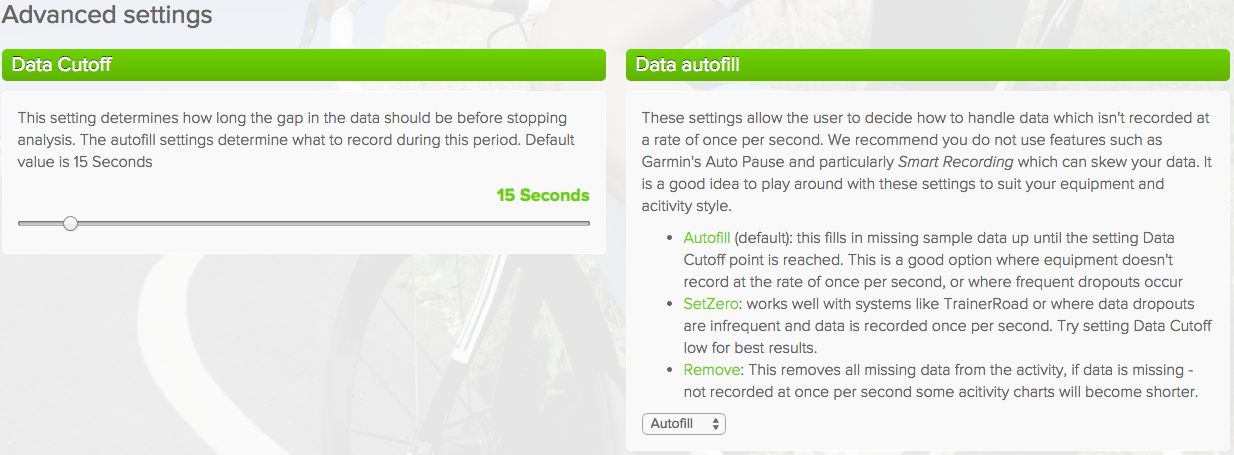
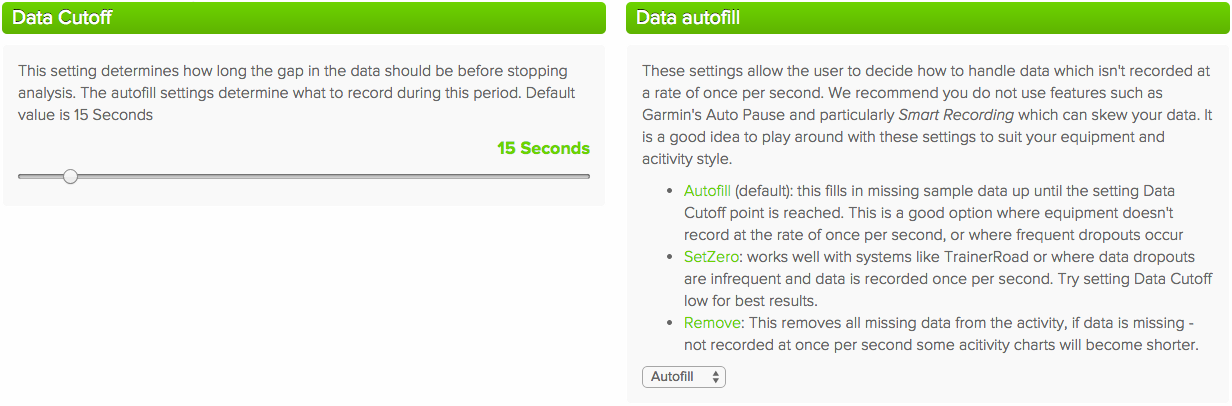
Making the slider look nicer!

Changed region(s): [[0.0, 0.0, 1.0, 0.9458], [0.0, 0.4729, 0.4935, 0.5025], [0.0, 0.4138, 0.4935, 0.4433]]

diff --git a/css/style.css b/css/style.css
@@ -865,14 +865,19 @@ hr{
 	width: 100%;
 	height:40px;
 }
-.footer-links-text{
+.footer-links-text, .footer-links-text-right{
 	margin-top: -10px;
 
 }
-.footer-links-text li{
+.footer-links-text li, .footer-links-text-right li{
 	list-style-type: none;
 	float: left;
 	padding-right: 10px;
+}
+.footer-links-text-right li{
+	list-style-type: none;
+	float: right;
+	padding-right: 20px;
 }
 .site-header{
 	/*-webkit-box-shadow: 0px 6px 8px -2px rgba(50, 50, 50, 0.75);
@@ -1160,11 +1165,11 @@ nav.top-nav li:hover{
 }
 .jps-slider img.image-shadow{
 	border-radius: 5px;
-	padding: 5px;
-	border: 1px #ccc solid;
-	-webkit-box-shadow: 0px 6px 8px -2px rgba(50, 50, 50, 0.75);
+	/*padding: 5px;*/
+	/*border: 10px #6DD300 double;*/
+/*	-webkit-box-shadow: 0px 6px 8px -2px rgba(50, 50, 50, 0.75);
 	-moz-box-shadow: 0px 6px 8px -2px rgba(50, 50, 50, 0.75);
-	box-shadow: 0px 6px 8px -2px rgba(50, 50, 50, 0.75);
+	box-shadow: 0px 6px 8px -2px rgba(50, 50, 50, 0.75);*/
 }
 main{
 	/*background: url(../images/graph-paper-blog.gif);*/

diff --git a/css/light.css b/css/light.css
@@ -167,6 +167,11 @@ textarea{
 	color:#6dd300;
 	text-shadow: 0 -1px #0d0d0d;
 }
+.footer-links-text-right li a{
+	color:#fb4b02;
+	text-shadow: 0 -1px #0d0d0d;
+	text-align: right;
+}
 .footer-links-text li {
 	color:#fff;
 	text-shadow: 0 -1px #0d0d0d;

diff --git a/application/views/front_page.php b/application/views/front_page.php
@@ -103,6 +103,7 @@
             ];
 
             var options = {
+                $HWA: false,
             	$FillMode: 1,                                       //[Optional] The way to fill image in slide, 0 stretch, 1 contain (keep aspect ratio and put all inside slide), 2 cover (keep aspect ratio and cover whole slide), 4 actual size, 5 contain for large image, actual size for small image, default value is 0
                 $AutoPlay: true,                                    //[Optional] Whether to auto play, to enable slideshow, this option must be set to true, default value is false
                 $AutoPlaySteps: 1,                                  //[Optional] Steps to go for each navigation request (this options applys only when slideshow disabled), the default value is 1
@@ -222,9 +223,9 @@
 			    <!-- Jssor Slider Begin -->
 			    <!-- You can move inline styles to css file or css block. -->
 			        <div id="slider1_container" style="position: relative; margin: 0px 5px 5px 0px; float: left; top: 0px; left: 0px; width: 1000px;
-			            height: 420px; overflow: hidden;">
+			            height: 450px; overflow: hidden;">
 			            <!-- Slides Container -->
-			            <div u="slides" style="cursor: move; position: absolute; left: 0px; top: 0px; width: 1000px; height: 420px;
+			            <div u="slides" style="cursor: move; position: absolute; left: 0px; top: 0px; width: 1000px; height: 450px;
 			                overflow: hidden;">
 			                <div>
 				                <a u=image href="#"><img class="image-shadow"  src="http://joulepersecond.com/js/slider/img/screenshots/activity-finder.png" /></a>
@@ -372,10 +373,10 @@
 				            .jssora05rdn { background-position: -310px -40px; }
 				        </style>
 				        <!-- Arrow Left -->
-				        <span u="arrowleft" class="jssora05l" style="width: 40px; height: 40px; top: 123px; left: 8px;">
+				        <span u="arrowleft" class="jssora05l" style="width: 40px; height: 40px; top: 150px; left: 15px; background-repeat:no-repeat; border-radius: 50%; box-shadow: 0px 6px 8px -2px rgba(50, 50, 50, 0.75);">
 				        </span>
 				        <!-- Arrow Right -->
-				        <span u="arrowright" class="jssora05r" style="width: 40px; height: 40px; top: 123px; right: 8px">
+				        <span u="arrowright" class="jssora05r" style="width: 40px; height: 40px; top: 150px; right: 15px; background-repeat:no-repeat; border-radius: 50%; box-shadow: 0px 6px 8px -2px rgba(50, 50, 50, 0.75);">
 				        </span>
 				        <!-- Arrow Navigator Skin End -->
 				        <a style="display: none" href="http://www.jssor.com">jQuery Slider</a>

diff --git a/application/views/templates/footer.php b/application/views/templates/footer.php
@@ -13,6 +13,11 @@
 			<li> | </li>
 			<li><a href="#">Contact us</a></li>
 		</ul>
+	</div>
+	<div class="col-1-2 footer-links-text-right">
+		<ul>
+			<li><a href="http://wizard.technology">&copy; Wizard Technology 2015</a></li>
+		</ul>
 	<div>
 </div>
 </footer>
